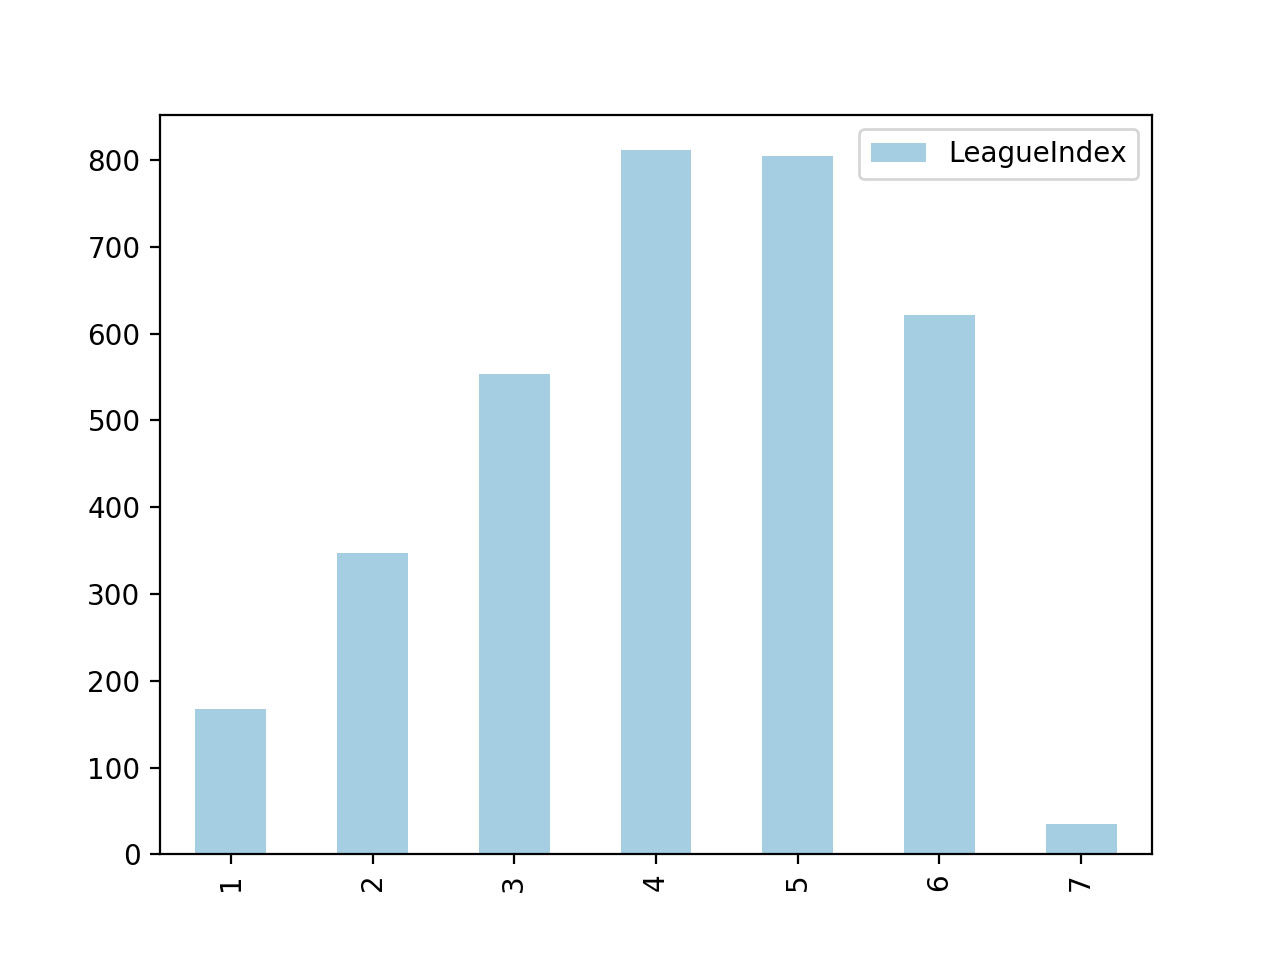
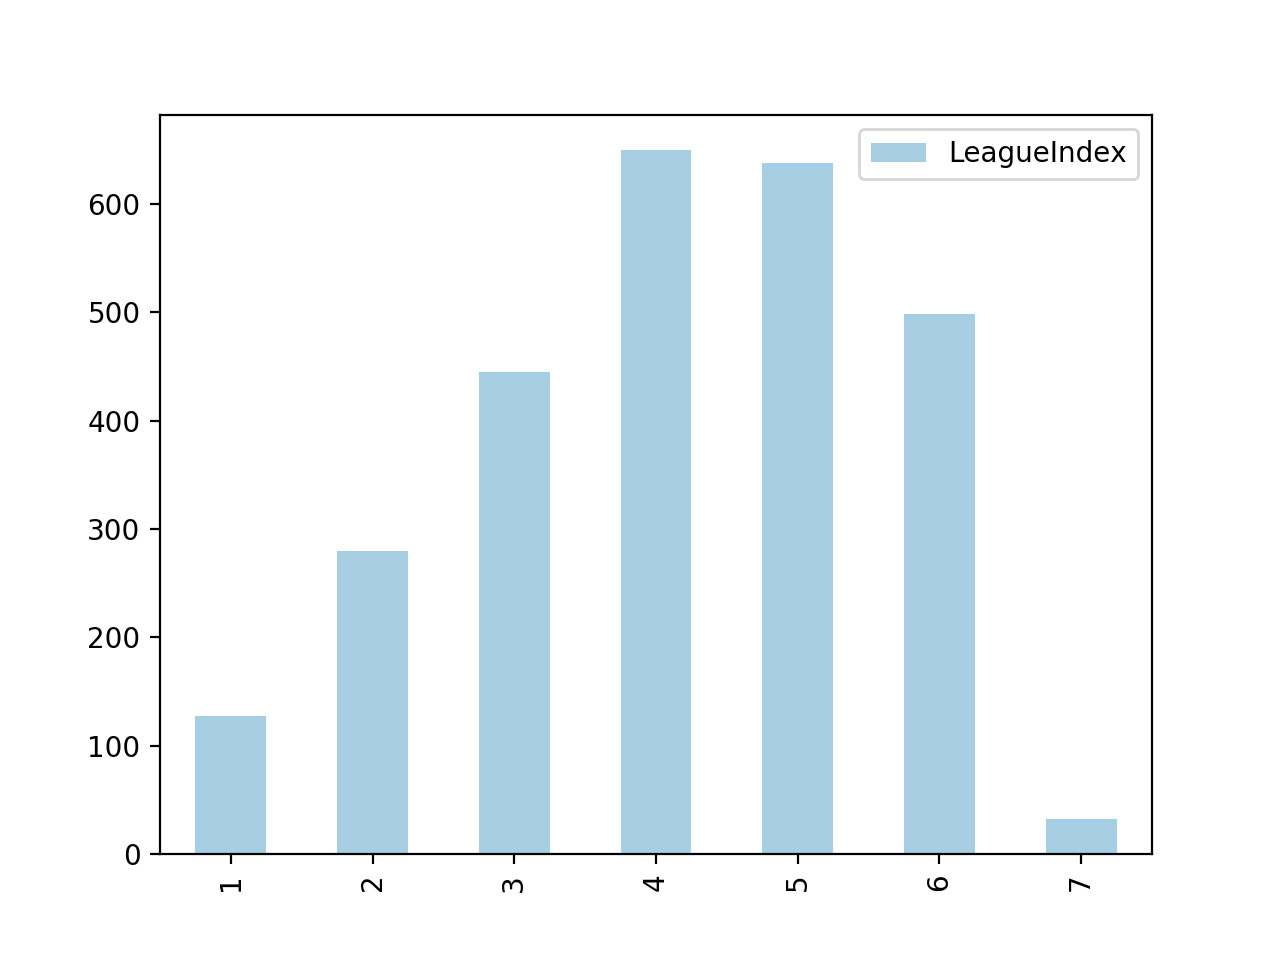
edited LM 1st post and first draf ot LM 2nd post

diff --git a/_posts/2018-09-04-Refresh-Linear-Regression-1.md b/_posts/2018-09-04-Refresh-Linear-Regression-1.md
@@ -31,10 +31,11 @@ I'm going to do a simple linear regression on the variable provided in the datas
 
 There are total of 20 variables in the dataset. It's explained quite succinctly on the kaggle page ([Skillcraft Kaggle](https://www.kaggle.com/danofer/skillcraft/home)). I'm going to set the *League Index as the Dependent Variable* and *Other Variables as Independent Variable* first to get the gist of the dataset.
 
-**Getting Data**
+**Getting Data and Splitting Data**
 {% highlight python %}
 import pandas as pd
 import urllib.request as urllib
+from sklearn.model_selection import train_test_split
 
 # getting data
 url = 'https://raw.githubusercontent.com/Jinwooooo/Kaggle-SC2' +
@@ -42,6 +43,9 @@ url = 'https://raw.githubusercontent.com/Jinwooooo/Kaggle-SC2' +
 response = urllib.urlopen(url)
 df_main = pd.read_csv(response)
 response.close()
+
+# splitting data
+df_train, df_test = train_test_split(df_main, test_size=0.2, random_state=111)
 {% endhighlight %}
 
 First let's try to see if the league index follows a normal distribution curve. (If it doesn't follow, then it's highly likely going to be a waste of time)
@@ -49,7 +53,7 @@ First let's try to see if the league index follows a normal distribution curve. 
 {% highlight python %}
 import matplotlib.pyplot as plt
 
-df_league_index_distr = (df_main['LeagueIndex'].value_counts()).to_frame()
+df_league_index_distr = (df_train['LeagueIndex'].value_counts()).to_frame()
 df_league_index_distr.sort_index(inplace=True)
 df_league_index_distr.plot(kind='bar',y='LeagueIndex',colormap='Paired')
 plt.show()
@@ -64,10 +68,11 @@ It's skewed toward the higher LeagueIndex. Need to keep that in mind as we go on
 import statsmodels.api as sm
 
 # Dependent Variable
-y = df_main[['LeagueIndex']]
+y = df_train[['LeagueIndex']]
 
 # Independent Variable
-x_1 = df_main.drop(['GameID','LeagueIndex'], axis=1)
+removed_cols = ['GameID','LeagueIndex']
+x_1 = df_train.drop(removed_cols, axis=1)
 
 # 1st Model (Full)
 model_1 = sm.OLS(y,x_1).fit()
@@ -79,56 +84,57 @@ You can notice I've dropped GameID, since it's intuitive it's gonna be random an
 {% highlight text %}
 OLS Regression Results                            
 ==============================================================================
-Dep. Variable:            LeagueIndex   R-squared:                       0.947
-Model:                            OLS   Adj. R-squared:                  0.947
-Method:                 Least Squares   F-statistic:                     3313.
+Dep. Variable:            LeagueIndex   R-squared:                       0.948
+Model:                            OLS   Adj. R-squared:                  0.948
+Method:                 Least Squares   F-statistic:                     2695.
 Date:                Tue, 04 Sep 2018   Prob (F-statistic):               0.00
-Time:                        11:43:03   Log-Likelihood:                -4746.6
-No. Observations:                3338   AIC:                             9529.
-Df Residuals:                    3320   BIC:                             9639.
+Time:                        12:00:00   Log-Likelihood:                -3778.0
+No. Observations:                2670   AIC:                             7592.
+Df Residuals:                    2652   BIC:                             7698.
 Df Model:                          18                                         
 Covariance Type:            nonrobust                                         
 ========================================================================================
                            coef    std err          t      P>|t|      [0.025      0.975]
 ----------------------------------------------------------------------------------------
-Age                      0.0228      0.004      5.347      0.000       0.014       0.031
-HoursPerWeek             0.0083      0.002      5.432      0.000       0.005       0.011
-TotalHours           -1.086e-06   1.01e-06     -1.076      0.282   -3.07e-06    8.93e-07
-APM                     -0.0100      0.002     -4.756      0.000      -0.014      -0.006
-SelectByHotkeys         87.7749     12.495      7.025      0.000      63.276     112.274
-AssignToHotkeys        845.1831    105.214      8.033      0.000     638.892    1051.474
-UniqueHotkeys            0.0312      0.009      3.659      0.000       0.014       0.048
-MinimapAttacks        1025.4474    116.747      8.784      0.000     796.545    1254.350
-MinimapRightClicks      -3.8355     54.979     -0.070      0.944    -111.632     103.961
-NumberOfPACs           864.9794     45.537     18.995      0.000     775.696     954.263
-GapBetweenPACs          -0.0075      0.002     -4.959      0.000      -0.011      -0.005
-ActionLatency           -0.0074      0.002     -4.486      0.000      -0.011      -0.004
-ActionsInPAC             0.2866      0.027     10.809      0.000       0.235       0.339
-TotalMapExplored        -0.0067      0.003     -2.094      0.036      -0.013      -0.000
-WorkersMade            221.4666     38.250      5.790      0.000     146.470     296.463
-UniqueUnitsMade         -0.0085      0.012     -0.702      0.483      -0.032       0.015
-ComplexUnitsMade       244.2682    210.433      1.161      0.246    -168.323     656.859
-ComplexAbilitiesUsed    18.6144     84.779      0.220      0.826    -147.611     184.840
+Age                      0.0229      0.005      4.808      0.000       0.014       0.032
+HoursPerWeek             0.0098      0.002      5.647      0.000       0.006       0.013
+TotalHours            -1.08e-06      1e-06     -1.076      0.282   -3.05e-06    8.89e-07
+APM                     -0.0120      0.002     -4.987      0.000      -0.017      -0.007
+SelectByHotkeys         97.7732     14.367      6.805      0.000      69.601     125.945
+AssignToHotkeys        834.2688    117.474      7.102      0.000     603.918    1064.619
+UniqueHotkeys            0.0321      0.009      3.408      0.001       0.014       0.051
+MinimapAttacks        1099.5574    137.978      7.969      0.000     829.002    1370.113
+MinimapRightClicks      -3.0813     60.373     -0.051      0.959    -121.464     115.301
+NumberOfPACs           904.6219     51.368     17.610      0.000     803.896    1005.348
+GapBetweenPACs          -0.0087      0.002     -5.160      0.000      -0.012      -0.005
+ActionLatency           -0.0074      0.002     -3.883      0.000      -0.011      -0.004
+ActionsInPAC             0.3072      0.031      9.954      0.000       0.247       0.368
+TotalMapExplored        -0.0083      0.004     -2.318      0.021      -0.015      -0.001
+WorkersMade            207.8367     42.068      4.941      0.000     125.348     290.326
+UniqueUnitsMade         -0.0070      0.013     -0.528      0.597      -0.033       0.019
+ComplexUnitsMade       259.6567    236.983      1.096      0.273    -205.034     724.347
+ComplexAbilitiesUsed    69.7129     97.815      0.713      0.476    -122.088     261.514
 ==============================================================================
-Omnibus:                       15.520   Durbin-Watson:                   2.049
-Prob(Omnibus):                  0.000   Jarque-Bera (JB):               15.680
-Skew:                          -0.163   Prob(JB):                     0.000394
-Kurtosis:                       2.917   Cond. No.                     2.16e+08
+Omnibus:                       13.011   Durbin-Watson:                   2.010
+Prob(Omnibus):                  0.001   Jarque-Bera (JB):               13.146
+Skew:                          -0.166   Prob(JB):                      0.00140
+Kurtosis:                       2.909   Cond. No.                     2.45e+08
 ==============================================================================
 
 Warnings:
 [1] Standard Errors assume that the covariance matrix of the errors is correctly specified.
-[2] The condition number is large, 2.16e+08. This might indicate that there are
+[2] The condition number is large, 2.45e+08. This might indicate that there are
 strong multicollinearity or other numerical problems.
 {% endhighlight %}
 
 It's common practice to remove p-values that are lower than 0.05 (of course adjustments are made depending on the result you are trying to achieve through linear regression). So I'm going to remove total of 5 independent variable (TotalHours, MinimapRightClicks, UniqueUnitsMade, ComplextUnitsMade, ComplexAbilitiesUsed)
 
-**2nd Model (Removing Insignificant p-value variables)**
+**2nd Model (Removing insignificant p-value variables)**
 {% highlight python %}
 # 2nd Model : Excluding Independent Variable w/ p-values lower than 0.05
-x_2 = df_main.drop(['GameID','LeagueIndex','TotalHours','MinimapRightClicks','UniqueUnitsMade',
-                   'ComplexUnitsMade','ComplexAbilitiesUsed'], axis=1)
+removed_cols = removed_cols + ['TotalHours','MinimapRightClicks','UniqueUnitsMade',
+                   'ComplexUnitsMade','ComplexAbilitiesUsed']
+x_2 = df_train.drop(removed_cols, axis=1)
 model_2 = sm.OLS(y,x_2).fit()
 print(model_2.summary())
 {% endhighlight %}
@@ -136,41 +142,41 @@ print(model_2.summary())
 {% highlight text %}
 OLS Regression Results                            
 ==============================================================================
-Dep. Variable:            LeagueIndex   R-squared:                       0.947
-Model:                            OLS   Adj. R-squared:                  0.947
-Method:                 Least Squares   F-statistic:                     4588.
+Dep. Variable:            LeagueIndex   R-squared:                       0.948
+Model:                            OLS   Adj. R-squared:                  0.948
+Method:                 Least Squares   F-statistic:                     3731.
 Date:                Tue, 04 Sep 2018   Prob (F-statistic):               0.00
-Time:                        21:12:51   Log-Likelihood:                -4748.5
-No. Observations:                3338   AIC:                             9523.
-Df Residuals:                    3325   BIC:                             9602.
+Time:                        12:00:00   Log-Likelihood:                -3780.5
+No. Observations:                2670   AIC:                             7587.
+Df Residuals:                    2657   BIC:                             7664.
 Df Model:                          13                                         
 Covariance Type:            nonrobust                                         
 ====================================================================================
                        coef    std err          t      P>|t|      [0.025      0.975]
 ------------------------------------------------------------------------------------
-Age                  0.0222      0.004      5.233      0.000       0.014       0.031
-HoursPerWeek         0.0083      0.002      5.448      0.000       0.005       0.011
-APM                 -0.0101      0.002     -4.929      0.000      -0.014      -0.006
-SelectByHotkeys     88.0018     12.238      7.191      0.000      64.007     111.997
-AssignToHotkeys    857.7489    104.714      8.191      0.000     652.438    1063.060
-UniqueHotkeys        0.0311      0.009      3.653      0.000       0.014       0.048
-MinimapAttacks    1019.3487    115.693      8.811      0.000     792.512    1246.185
-NumberOfPACs       860.8636     43.995     19.567      0.000     774.604     947.123
-GapBetweenPACs      -0.0074      0.002     -4.887      0.000      -0.010      -0.004
-ActionLatency       -0.0078      0.002     -4.798      0.000      -0.011      -0.005
-ActionsInPAC         0.2884      0.026     10.985      0.000       0.237       0.340
-TotalMapExplored    -0.0067      0.003     -2.413      0.016      -0.012      -0.001
-WorkersMade        227.8747     37.815      6.026      0.000     153.732     302.017
+Age                  0.0223      0.005      4.691      0.000       0.013       0.032
+HoursPerWeek         0.0098      0.002      5.655      0.000       0.006       0.013
+APM                 -0.0122      0.002     -5.202      0.000      -0.017      -0.008
+SelectByHotkeys     98.5245     14.098      6.989      0.000      70.880     126.169
+AssignToHotkeys    853.8782    116.965      7.300      0.000     624.526    1083.231
+UniqueHotkeys        0.0322      0.009      3.431      0.001       0.014       0.051
+MinimapAttacks    1095.3560    136.800      8.007      0.000     827.112    1363.600
+NumberOfPACs       903.0007     49.697     18.170      0.000     805.552    1000.449
+GapBetweenPACs      -0.0085      0.002     -5.066      0.000      -0.012      -0.005
+ActionLatency       -0.0079      0.002     -4.220      0.000      -0.012      -0.004
+ActionsInPAC         0.3115      0.031     10.185      0.000       0.252       0.371
+TotalMapExplored    -0.0077      0.003     -2.453      0.014      -0.014      -0.002
+WorkersMade        215.7429     41.608      5.185      0.000     134.156     297.330
 ==============================================================================
-Omnibus:                       15.856   Durbin-Watson:                   2.049
-Prob(Omnibus):                  0.000   Jarque-Bera (JB):               16.022
-Skew:                          -0.165   Prob(JB):                     0.000332
-Kurtosis:                       2.917   Cond. No.                     9.86e+05
+Omnibus:                       13.781   Durbin-Watson:                   2.010
+Prob(Omnibus):                  0.001   Jarque-Bera (JB):               13.935
+Skew:                          -0.171   Prob(JB):                     0.000942
+Kurtosis:                       2.910   Cond. No.                     1.04e+06
 ==============================================================================
 
 Warnings:
 [1] Standard Errors assume that the covariance matrix of the errors is correctly specified.
-[2] The condition number is large, 9.86e+05. This might indicate that there are
+[2] The condition number is large, 1.04e+06. This might indicate that there are
 strong multicollinearity or other numerical problems.
 {% endhighlight %}
 

diff --git a/_posts/2018-09-12-refresh-linear-regression-2.md b/_posts/2018-09-12-refresh-linear-regression-2.md
@@ -1,0 +1,153 @@
+---
+layout: post
+title:  "Reviewing Linear Regression - Part 2"
+image: ''
+date:   2018-09-12 00:12:00
+tags:
+- Review
+- Linear Regression
+- Stream of Progress
+- Python
+- R
+description: 'Reviewing Linear Regression for Practice. Using Kaggle Public Dataset : Skillcraft'
+categories:
+- Linear Regression
+---
+
+## Before reading this post, I strongly suggest you read this part first
+
+I'm going to do a simple linear regression on the variable provided in the dataset and try to visualize some problematic variables and try to make a final model with the most correlated variable. In the end, I will organize and make a kernel up on Kaggle.com if possible, so go to the link on the bottom for an organized report. 'Stream of Progress' tags are a progressive post that are going to talk about stuff that maybe aren't so worth your time.
+
+**Finalized Post/Blog/Kernel**
+
+* [For Kaggle](www.google.com)
+* [For My Own Blog](www.google.com)
+
+---
+
+So I left off with 2nd Model and was going to go through outliers for each independent variable. However, I do want to write about the results of the 2 Models that are previously built.
+
+**1st Full Model** was actually pretty good in terms of result. Adjusted R-Squared is 0.948 and Durbin-Watson is very close to 2. Skew and Kurtosis is close to 0 and 3 , respectively, which is a good indication. However, some values had p-values that were insignificant, so removing those variables in my opinion was the right move.
+
+**2nd Model (insiginficant p-values removed)** almost same result as the full model. Since variables that were insignificant were removed this model would likely result in better model than the 1st Full Model when tested in the test set.
+
+To be honest, it's possible to stop in the 2nd model because the independent variable is representing the train model very accurately. Probably no need to go further, but the purpose of this exercise is to refresh, so I will try to make a 3rd model depending on the outliers.
+
+---
+
+**Observing Outliers with Box and Whisker Plot**
+{% highlight python %}
+# checking for outliers
+dep_var = list(y)[0]
+indep_var_list = list(x_2)
+
+for indep_var in indep_var_list:
+    df_train.boxplot(column=indep_var,by=dep_var)
+    plt.title(dep_var + ' vs ' + indep_var)
+    plt.suptitle('')
+plt.show()
+{% endhighlight %}
+
+<img src="../uploads/skillcraft-boxwhisker.jpg">
+
+For me, I thought MinimapAttacks and SelectByHotkeys have more outliers than the rest, so I decided to remove them to see what happens. This is not a common practice by the way, usually you either 1. remove the outlying rows (which is discouraged as well since it means you are mingling with the data which in result may not reflect the real world) or 2. you just acknowledge the outliers and move on.
+
+**3rd Model (Removing variables with high number of outliers)**
+{% highlight python %}
+# 3rd Model : Excluding certain variable with outliers that seem to be extreme
+removed_cols = removed_cols + ['SelectByHotkeys','MinimapAttacks']
+x_3 = df_train.drop(removed_cols, axis=1)
+model_3 = sm.OLS(y,x_3).fit()
+print(model_3.summary())
+{% endhighlight %}
+
+{% highlight text %}
+OLS Regression Results                            
+==============================================================================
+Dep. Variable:            LeagueIndex   R-squared:                       0.946
+Model:                            OLS   Adj. R-squared:                  0.946
+Method:                 Least Squares   F-statistic:                     4233.
+Date:                Wed, 12 Sep 2018   Prob (F-statistic):               0.00
+Time:                        12:00:00   Log-Likelihood:                -3833.2
+No. Observations:                2670   AIC:                             7688.
+Df Residuals:                    2659   BIC:                             7753.
+Df Model:                          11                                         
+Covariance Type:            nonrobust                                         
+====================================================================================
+                       coef    std err          t      P>|t|      [0.025      0.975]
+------------------------------------------------------------------------------------
+Age                  0.0292      0.005      6.091      0.000       0.020       0.039
+HoursPerWeek         0.0111      0.002      6.330      0.000       0.008       0.015
+APM                  0.0035      0.001      4.133      0.000       0.002       0.005
+AssignToHotkeys   1040.0505    117.689      8.837      0.000     809.280    1270.821
+UniqueHotkeys        0.0356      0.010      3.729      0.000       0.017       0.054
+NumberOfPACs       612.9167     32.029     19.136      0.000     550.111     675.722
+GapBetweenPACs      -0.0090      0.002     -5.300      0.000      -0.012      -0.006
+ActionLatency       -0.0024      0.002     -1.413      0.158      -0.006       0.001
+ActionsInPAC         0.1411      0.018      7.693      0.000       0.105       0.177
+TotalMapExplored    -0.0050      0.003     -1.588      0.112      -0.011       0.001
+WorkersMade        164.8810     41.841      3.941      0.000      82.836     246.926
+==============================================================================
+Omnibus:                       14.352   Durbin-Watson:                   1.989
+Prob(Omnibus):                  0.001   Jarque-Bera (JB):               14.063
+Skew:                          -0.157   Prob(JB):                     0.000884
+Kurtosis:                       2.833   Cond. No.                     8.68e+05
+==============================================================================
+
+Warnings:
+[1] Standard Errors assume that the covariance matrix of the errors is correctly specified.
+[2] The condition number is large, 8.68e+05. This might indicate that there are
+strong multicollinearity or other numerical problems.
+{% endhighlight %}
+
+Seems that removing the variable I selected yielded no fruit. Seems like going back to Model 2 is the right choice. However, I'm going to make a Model 4 by removing the insignificant p-value from Model 3.
+
+**4th Model (Removing insignficant p-values from 3rd Model)**
+{% highlight python %}
+# 3rd Model : Excluding certain variable with outliers that seem to be extreme
+removed_cols = removed_cols + ['ActionLatency','TotalMapExplored']
+x_4 = df_train.drop(removed_cols, axis=1)
+model_4 = sm.OLS(y,x_4).fit()
+print(model_4.summary())
+{% endhighlight %}
+
+{% highlight text %}
+OLS Regression Results                            
+==============================================================================
+Dep. Variable:            LeagueIndex   R-squared:                       0.946
+Model:                            OLS   Adj. R-squared:                  0.946
+Method:                 Least Squares   F-statistic:                     5169.
+Date:                Wed, 12 Sep 2018   Prob (F-statistic):               0.00
+Time:                        12:00:00   Log-Likelihood:                -3835.3
+No. Observations:                2670   AIC:                             7689.
+Df Residuals:                    2661   BIC:                             7742.
+Df Model:                           9                                         
+Covariance Type:            nonrobust                                         
+===================================================================================
+                      coef    std err          t      P>|t|      [0.025      0.975]
+-----------------------------------------------------------------------------------
+Age                 0.0258      0.004      6.043      0.000       0.017       0.034
+HoursPerWeek        0.0110      0.002      6.259      0.000       0.008       0.014
+APM                 0.0040      0.001      5.034      0.000       0.002       0.006
+AssignToHotkeys  1028.6848    117.491      8.755      0.000     798.303    1259.067
+UniqueHotkeys       0.0330      0.009      3.492      0.000       0.014       0.052
+NumberOfPACs      590.7042     28.539     20.698      0.000     534.744     646.664
+GapBetweenPACs     -0.0111      0.001     -9.473      0.000      -0.013      -0.009
+ActionsInPAC        0.1266      0.016      7.852      0.000       0.095       0.158
+WorkersMade       167.5466     41.811      4.007      0.000      85.562     249.531
+==============================================================================
+Omnibus:                       14.168   Durbin-Watson:                   1.988
+Prob(Omnibus):                  0.001   Jarque-Bera (JB):               13.879
+Skew:                          -0.156   Prob(JB):                     0.000969
+Kurtosis:                       2.833   Cond. No.                     7.83e+05
+==============================================================================
+
+Warnings:
+[1] Standard Errors assume that the covariance matrix of the errors is correctly specified.
+[2] The condition number is large, 7.83e+05. This might indicate that there are
+strong multicollinearity or other numerical problems.
+{% endhighlight %}
+
+There isn't much difference from Model 2, but Model 4 is slightly worse by just comparing Adjusted R-squared, AIC/BIC, Durbin-Watson, Skew, Kurtosis.
+
+Think I will settle with Model 2 and Model 4 (I could use Model 1 and Model 3 as well, but due to insignificant p-value I will have to exlcude them later and they are highly likely be an inferior model to the other 2 I have selected). Compare the 2 models with ANOVA then choose the better one (I'm going to say Model 2 is probably going to be better by an inch). After choosing the model, will do final tests to insure that the model is viable (i.e. multicollinearity)
